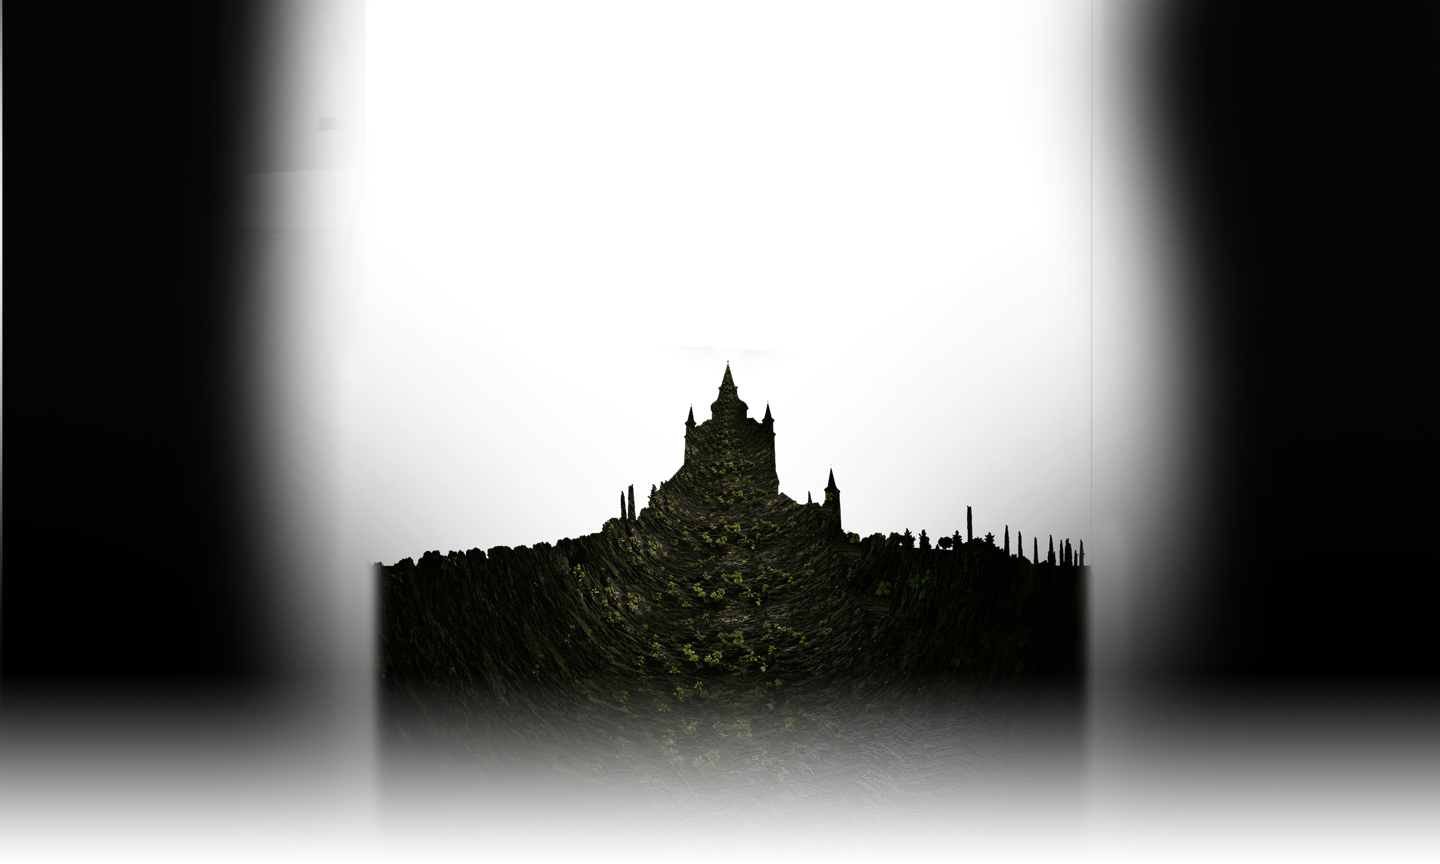
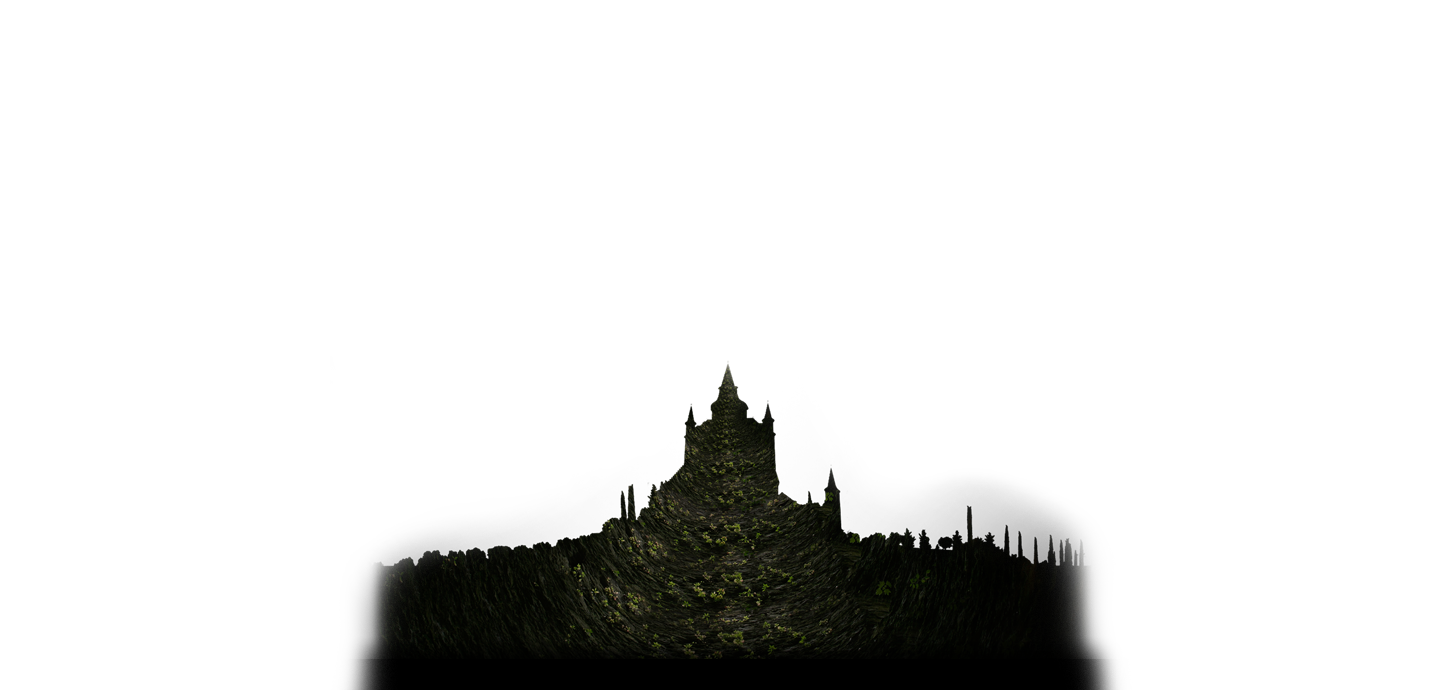
optimise images

diff --git a/index.html b/index.html
@@ -16,8 +16,9 @@
 
     <title>Philip Pullman’s Grimm Tales I An immersive fairy-tale</title>
 
-    <link rel="stylesheet" type="text/css" media="all" href="style.css"/>
+    <link rel="stylesheet" type="text/css" media="all" href="style.css">
     <link rel="shortcut icon" href="img/favicon.png" type="image/png">
+    <link rel="prefetch" href="img/grimm-tales-philip-pullman-logo.png">
 
     <script>
         (function(i,s,o,g,r,a,m){i['GoogleAnalyticsObject']=r;i[r]=i[r]||function(){
